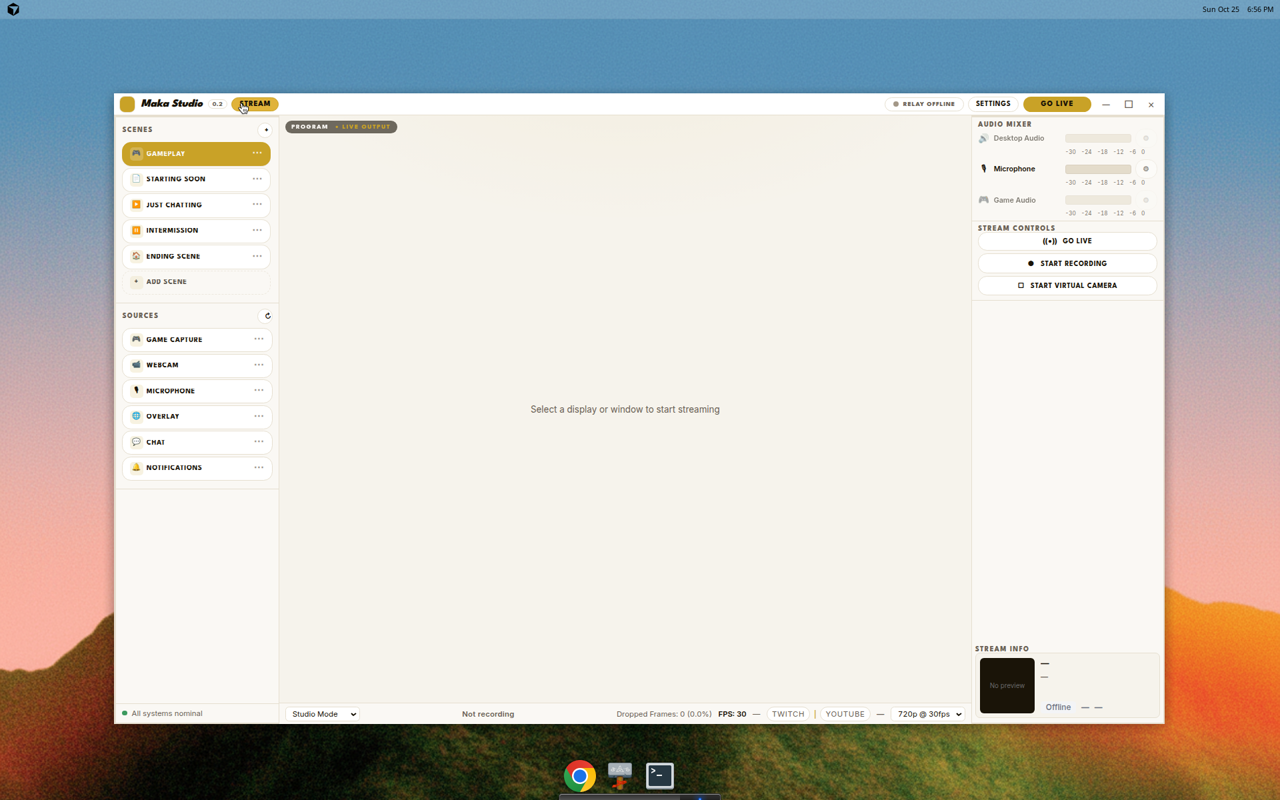
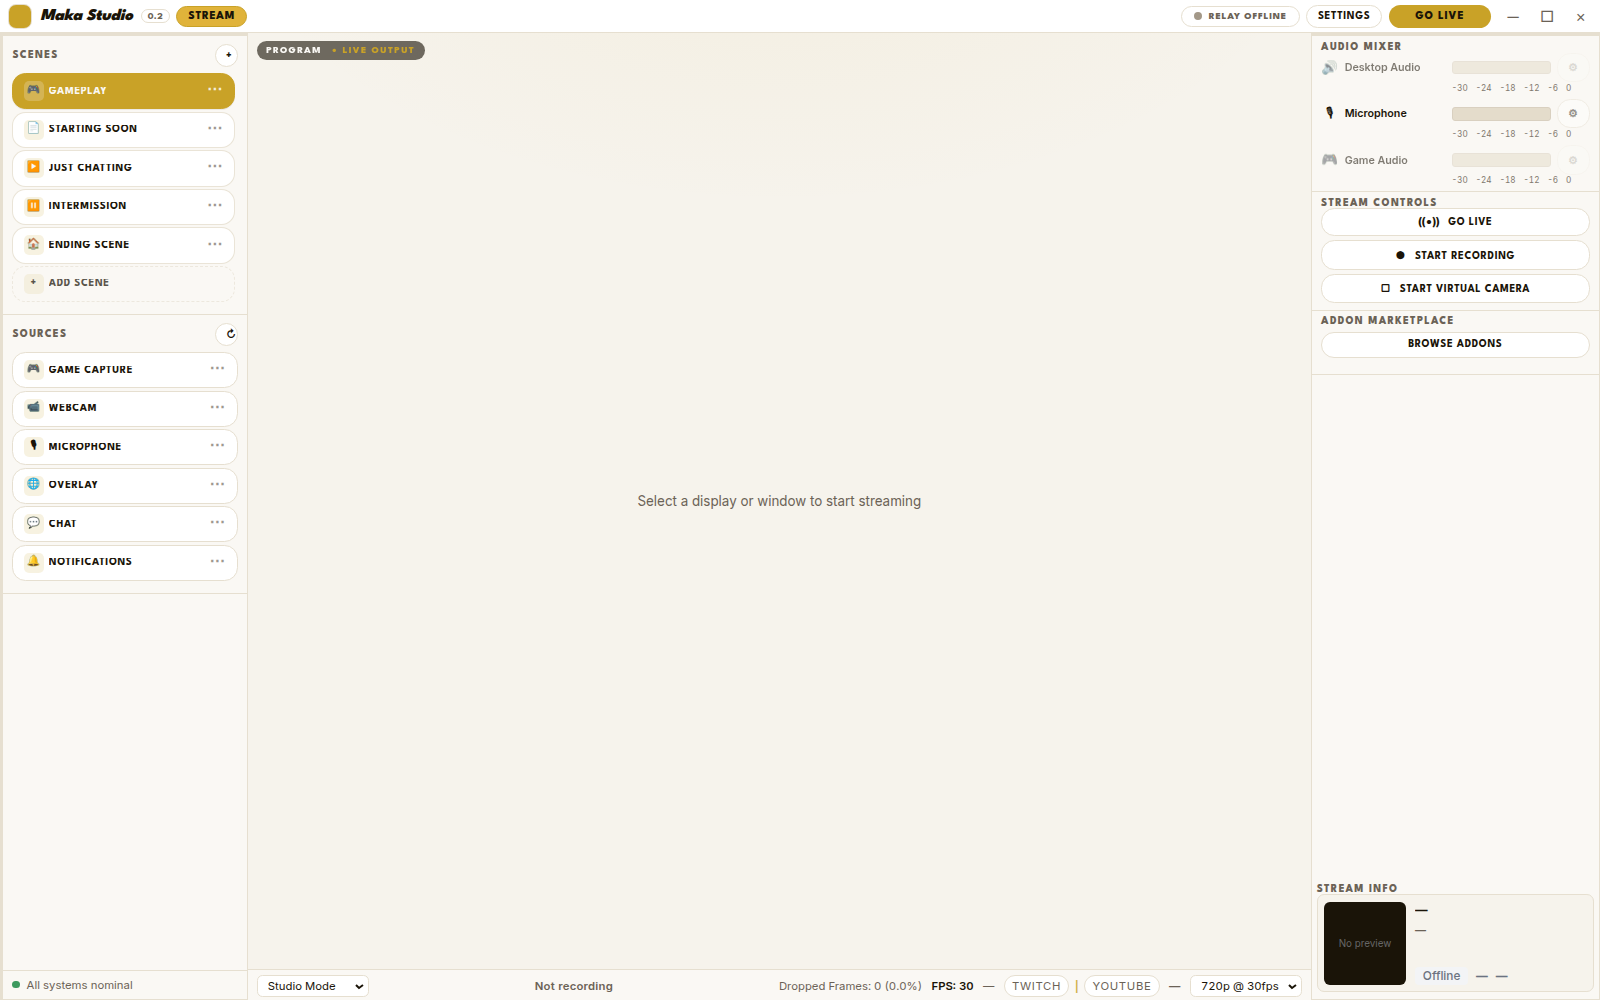
feat(studio): addon marketplace in sidebar and settings inventory
Add Addon Marketplace block below Stream Controls with Browse addons
button wired to existing initMarketplace dialog. Document all settings
in docs/studio-settings-inventory.md and refresh studio capture.

diff --git a/src/renderer/app.html b/src/renderer/app.html
@@ -455,6 +455,13 @@
           </div>
         </div>
 
+        <div class="studio-block studio-block-compact studio-block-marketplace">
+          <h2>Addon Marketplace</h2>
+          <button type="button" class="btn-block btn-secondary" id="btn-open-marketplace">
+            Browse addons
+          </button>
+        </div>
+
         <div class="studio-block studio-block-compact studio-block-stream-info">
           <h2>Stream Info</h2>
           <div class="stream-info" id="stream-info">

diff --git a/src/renderer/app.css b/src/renderer/app.css
@@ -1830,6 +1830,10 @@ body:not([data-mode='browse']) #browsetabs {
   margin-bottom: 0;
 }
 
+.studio-block-marketplace h2 {
+  margin-bottom: 0.38rem;
+}
+
 #btn-start-recording[data-recording='1'] .btn-icon-rec {
   color: #ef4444;
 }

diff --git a/docs/studio-settings-inventory.md b/docs/studio-settings-inventory.md
@@ -1,0 +1,92 @@
+# Studio settings inventory
+
+Audit of persisted settings, settings UI, and related controls in the Maka Electron studio (`settings.json`, browse session, and in-app surfaces). Last reviewed for the cream/gold redesign branch.
+
+## Settings dialog (`#settings-dialog`)
+
+| Label (UI) | Key / control id | Storage key | Wired? | What it does |
+| --- | --- | --- | --- | --- |
+| Minimize to tray while live | `set-tray-live` | `minimizeToTrayWhileLive` | **Yes** | On window close while streaming, main process minimizes to tray instead of quitting when this is true (`maybeMinimizeToTray` in `src/main/index.ts`). Default: `true`. |
+| Open chat pop-out when entering Browser Mode | `set-open-chat` | `openChatOnBrowse` | **Yes** | When switching to Browser Mode, main opens the chat pop-out if enabled (`openChatOnBrowse` in `src/main/index.ts`). Default: `false`. |
+| Demo mode (skip key validation) | `set-lab-mode` | `labMode` | **Yes** | Skips stream-key format checks in the renderer go-live path; updates `#dest-hint` copy. Default: `false`. |
+| Startup mode | `set-startup` | `startupMode` | **Yes** | `studio` vs `browse` on launch and when changed from `#program-output-mode`. Default: `studio`. |
+| Replay setup wizard | `btn-replay-setup` | (action) | **Yes** | Closes settings and runs `SetupWizard` (`setupWizardComplete` is set when finished/skipped). |
+| Check for updates | `btn-check-updates` | (action) | **Yes** | Calls `window.tabcast.checkForUpdates()` and drives `#update-banner`. |
+| Replay onboarding tour | `btn-replay-tour` | (action) | **Yes** | Closes settings and starts `OnboardingTour` (does not reset `onboardingComplete`). |
+| Save / Cancel | `settings-form` submit | — | **Yes** | Save persists the four fields above via `setSettings`; Cancel closes without write. |
+
+Handlers: `src/renderer/app.ts` (`btn-settings`, `settings-form` submit). Persistence: `src/main/settings-store.ts` + IPC `settings:get` / `settings:set`.
+
+## Persisted in `settings.json` but not in Settings dialog
+
+| Key | Default | Wired? | What it does |
+| --- | --- | --- | --- |
+| `bitrateProfile` | `720p30` | **Yes** | Encode preset for relay/WHIP and local recording; UI: `#program-quality-select`, go-live wizard quality step. Saved on profile change in `app.ts`. |
+| `streamDestinations` | Twitch on, YouTube off | **Yes** | `destTwitch`, `destYoutube`, `destCustom`, `twitchKey`, `youtubeKey`. Platform chips + `#platform-key-dialog`; saved from dialog. Keys stored on disk in userData (security-sensitive). |
+| `sceneImages` | `{}` | **Yes** | Absolute paths to scene background images per scene id; scene ⋯ menu and `pickSceneImageFile`. |
+| `customScenes` | `[]` | **Yes** | Up to three user scenes (`custom-1` … `custom-3`); Add Scene / rename in left sidebar. |
+| `onboardingComplete` | `false` | **Yes** | Set when onboarding tour finishes or is skipped; suppresses auto-start tour. |
+| `setupWizardComplete` | `false` | **Yes** | Set when first-run setup wizard finishes or is skipped; suppresses auto-start wizard. |
+
+## Browse session (`browse-session.json`)
+
+| Field | Wired? | What it does |
+| --- | --- | --- |
+| `tabs` | **Yes** | Saved browser tabs (id, title, url, pinned); restored in Browser Mode. |
+| `activeTabId` | **Yes** | Last active tab in Browser Mode. |
+
+Not exposed in Settings dialog; managed by browser UI and `src/main/browse-tabs.ts`.
+
+## Studio controls outside Settings (related “preferences”)
+
+| Surface | Persisted? | Wired? | Notes |
+| --- | --- | --- | --- |
+| `#program-output-mode` | Yes (`startupMode`) | **Yes** | Same as Settings startup mode. |
+| `#program-quality-select` | Yes (`bitrateProfile`) | **Yes** | Stats bar encode preset menu. |
+| Twitch / YouTube platform chips | Yes (`streamDestinations`) | **Yes** | Opens stream key dialog; not full metadata (title/category). |
+| Go Live wizard keys | Partial | **Yes** | Wizard writes keys into relay RAM; saving platform dialog persists to `streamDestinations`. |
+| Custom RTMP (legacy host + wizard) | Partial | **Conditional** | Legacy `#dest-custom-block` is hidden; wizard shows Custom RTMP when `com.tabcast.custom-rtmp` addon is installed/enabled. |
+| Scene / source toggles, overlay layout | No (session) | **Yes** | Runtime program layout; not in `settings.json`. |
+| Addon Marketplace | No | **Yes** | Right sidebar **Browse addons** → `#marketplace-dialog`; install/enable affects addon panels and custom RTMP visibility. |
+
+## Cosmetic or placeholder UI
+
+| Control | Notes |
+| --- | --- |
+| Desktop Audio / Game Audio mixer rows | Meters fixed at 0%; gear disabled; titles state not implemented. |
+| `#stat-latency` | Placeholder dash until latency telemetry exists. |
+| Stream Info title / category / viewers | Placeholder copy; not wired to Twitch/YouTube APIs in this build. |
+| `#btn-start-vcam` | Opens honest “not bundled” modal; no driver integration. |
+| Program `select` in stats bar (if present/disabled) | Legacy/disabled program picker hook. |
+
+## Suggested additions (proposals only)
+
+### Streaming
+
+- Default stream quality on first run (separate from per-session `#program-quality-select` if users want a global default only in Settings).
+- Remember last go-live platform (Twitch vs YouTube) in `streamDestinations` or a small wizard preference.
+- Optional “End stream confirmation” toggle before stopping live.
+
+### Browser
+
+- Homepage / default URL for new browser tabs.
+- Restore previous session tabs on startup (toggle; today session always restores when entering Browser Mode).
+
+### Recording
+
+- Default recording folder and filename pattern (today: save dialog per recording).
+- Record audio-only or separate audio track toggle when local record is enabled.
+
+### Privacy
+
+- Clear saved stream keys / reset destinations one-click.
+- Opt-out of analytics or diag upload if added later (no telemetry setting in this build).
+
+### Updates
+
+- Auto-check for updates on startup (today: manual **Check for updates** in Settings).
+- Release channel (stable vs beta) when multiple feeds exist.
+
+---
+
+**Related docs:** `docs/studio-redesign-handoff.md`, `docs/ADDON-API.md`, `level2.md` (onboarding and persistence notes).

diff --git a/docs/studio-redesign-handoff.md b/docs/studio-redesign-handoff.md
@@ -35,7 +35,7 @@ Verified against `app.html`, `app.css`, and `app.ts` on `cursor/maka-mixer-layou
 
 **Center.** Program preview with a "Program • Live Output" label. Under it, a stats bar: a disabled Program select, a quality dropdown, dropped frames, FPS, and resolution. The quality menu is filled from `ENCODE_PROFILE_ORDER`: 720p @ 30fps, 720p @ 60fps, 1080p @ 30fps, 1080p @ 60fps, 2K @ 60fps, 4K @ 60fps. Default is `720p30` (1280×720, 30 fps). FPS and resolution labels follow that preset, not a measured capture clock.
 
-**Right.** Audio mixer, then Stream controls (Start Streaming, Start Recording, Start Virtual Camera), then Stream info at the bottom of the sidebar (`margin-top: auto` on `.studio-block-stream-info`).
+**Right.** Audio mixer, then Stream controls (Go Live, Recording, Virtual Cam), then **Addon Marketplace** (`#btn-open-marketplace` → `#marketplace-dialog`), then Stream info pinned to the bottom (`margin-top: auto` on `.studio-block-stream-info`). Settings inventory: `docs/studio-settings-inventory.md`.
 
 ### Audio mixer (accepted)
 
